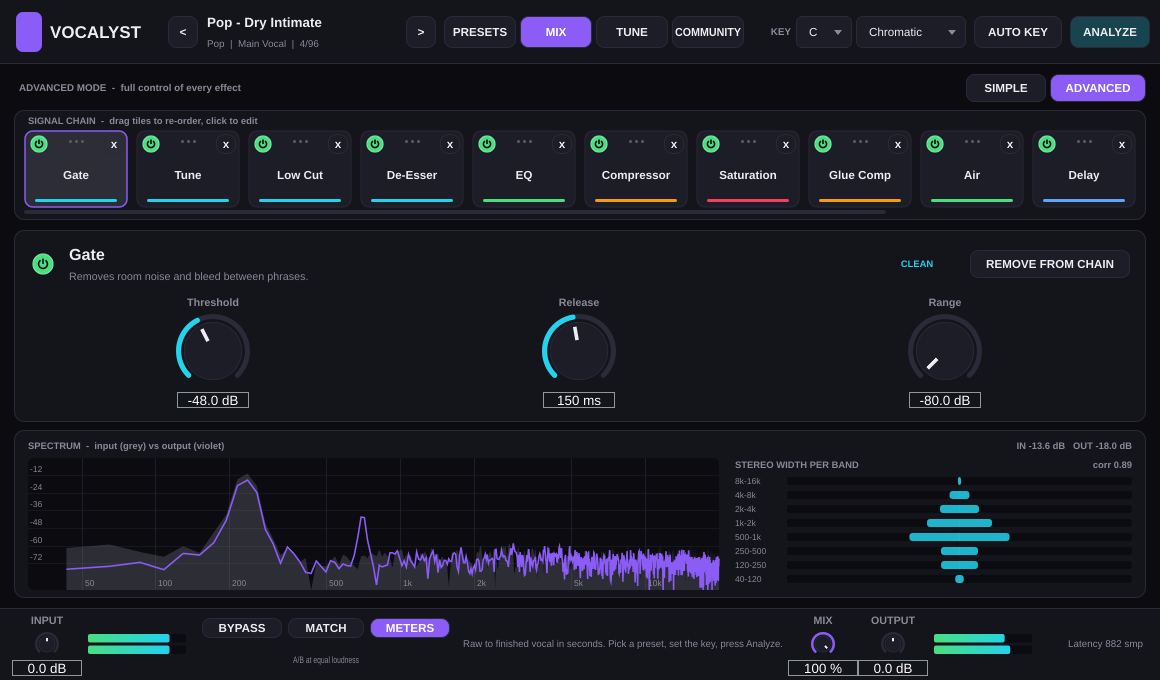
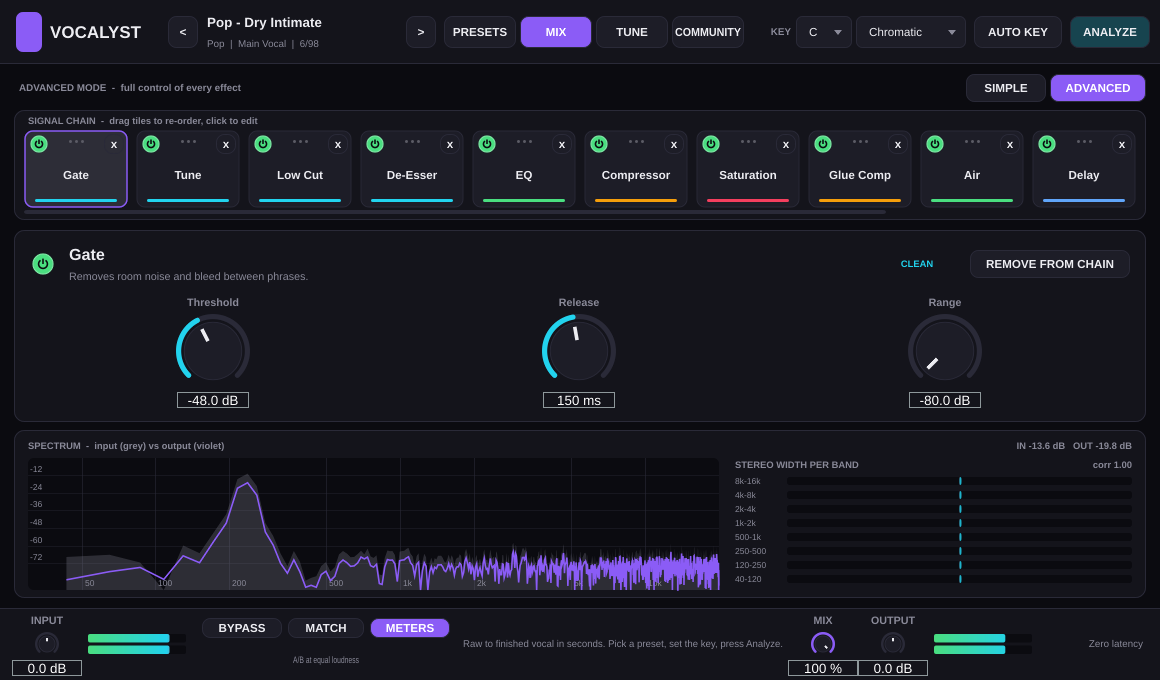
Init presets (Empty, Clean Chain), new instances start clean, NEW CHAIN button
Claude-Session: https://claude.ai/code/session_019o7CvKRSV2rczcRJZ2BTyA

diff --git a/Source/Presets/PresetData.cpp b/Source/Presets/PresetData.cpp
@@ -4,6 +4,8 @@ namespace vocalyst {
 extern const char* const kFactoryPresetData[];
 extern const int kNumFactoryPresets;
 const char* const kFactoryPresetData[] = {
+    "Init - Empty|Init|main|Blank canvas. Open the MIX tab, press + ADD and build your own chain.||",
+    "Init - Clean Chain|Init|main|Transparent starting point: low cut, flat EQ, gentle 2:1 compression and a safety limiter.|lowcut,eq,comp,limiter|comp_attack=10;comp_makeup=0;comp_mix=100;comp_ratio=2;comp_release=100;comp_thresh=-24;eq_highfreq=9000;eq_highgain=0;eq_lowfreq=150;eq_lowgain=0;eq_mid1freq=400;eq_mid1gain=0;eq_mid1q=1;eq_mid2freq=3000;eq_mid2gain=0;eq_mid2q=1;limiter_ceiling=-0.5;limiter_gain=0;limiter_release=60;lowcut_freq=80;lowcut_q=0.71",
     "Pop - Radio Ready|Pop|main|Polished, bright and forward. The go-to pop lead.|gate,tune,lowcut,deess,eq,comp,sat,glue,air,delay,reverb,limiter|air_amount=3;air_freq=12000;comp_attack=5;comp_makeup=3;comp_mix=100;comp_ratio=4;comp_release=80;comp_thresh=-20;deess_amount=9;deess_freq=6500;deess_thresh=-30;delay_duck=45;delay_feedback=35;delay_lowcut=250;delay_mix=18;delay_spread=100;delay_sync=3;delay_time=375;delay_tone=6000;eq_highfreq=9000;eq_highgain=2;eq_lowfreq=160;eq_lowgain=-1.5;eq_mid1freq=350;eq_mid1gain=-2;eq_mid1q=1;eq_mid2freq=3500;eq_mid2gain=2.5;eq_mid2q=0.9;gate_range=-80;gate_release=150;gate_thresh=-48;glue_attack=15;glue_makeup=2;glue_ratio=2;glue_release=250;glue_thresh=-22;limiter_ceiling=-0.5;limiter_gain=0;limiter_release=60;lowcut_freq=95;lowcut_q=0.71;reverb_decay=45;reverb_duck=30;reverb_mix=20;reverb_predelay=25;reverb_size=55;reverb_tone=8000;reverb_width=100;sat_drive=25;sat_mix=100;sat_tone=0;tune_amount=100;tune_humanize=0;tune_speed=30",
     "Pop - Crystal Lead|Pop|main|Extra air and a tight slap for sparkle.|gate,tune,lowcut,deess,eq,comp,sat,glue,air,slap,delay,reverb,limiter|air_amount=5;air_freq=12000;comp_attack=5;comp_makeup=3;comp_mix=100;comp_ratio=4;comp_release=80;comp_thresh=-20;deess_amount=9;deess_freq=6500;deess_thresh=-30;delay_duck=45;delay_feedback=35;delay_lowcut=250;delay_mix=18;delay_spread=100;delay_sync=3;delay_time=375;delay_tone=6000;eq_highfreq=9000;eq_highgain=3;eq_lowfreq=160;eq_lowgain=-1.5;eq_mid1freq=350;eq_mid1gain=-2;eq_mid1q=1;eq_mid2freq=3500;eq_mid2gain=2.5;eq_mid2q=0.9;gate_range=-80;gate_release=150;gate_thresh=-48;glue_attack=15;glue_makeup=2;glue_ratio=2;glue_release=250;glue_thresh=-22;limiter_ceiling=-0.5;limiter_gain=0;limiter_release=60;lowcut_freq=95;lowcut_q=0.71;reverb_decay=45;reverb_duck=30;reverb_mix=20;reverb_predelay=25;reverb_size=55;reverb_tone=8000;reverb_width=100;sat_drive=25;sat_mix=100;sat_tone=0;slap_feedback=10;slap_mix=15;slap_time=110;slap_tone=5000;tune_amount=100;tune_humanize=0;tune_speed=30",
     "Pop - Stadium|Pop|main|Big hall and long throws for anthemic hooks.|gate,tune,lowcut,deess,eq,comp,sat,glue,air,delay,reverb,limiter|air_amount=3;air_freq=12000;comp_attack=5;comp_makeup=3;comp_mix=100;comp_ratio=4;comp_release=80;comp_thresh=-20;deess_amount=9;deess_freq=6500;deess_thresh=-30;delay_duck=45;delay_feedback=35;delay_lowcut=250;delay_mix=24;delay_spread=100;delay_sync=3;delay_time=375;delay_tone=6000;eq_highfreq=9000;eq_highgain=2;eq_lowfreq=160;eq_lowgain=-1.5;eq_mid1freq=350;eq_mid1gain=-2;eq_mid1q=1;eq_mid2freq=3500;eq_mid2gain=2.5;eq_mid2q=0.9;gate_range=-80;gate_release=150;gate_thresh=-48;glue_attack=15;glue_makeup=2;glue_ratio=2;glue_release=250;glue_thresh=-22;limiter_ceiling=-0.5;limiter_gain=0;limiter_release=60;lowcut_freq=95;lowcut_q=0.71;reverb_decay=75;reverb_duck=30;reverb_mix=32;reverb_predelay=25;reverb_size=85;reverb_tone=8000;reverb_width=100;sat_drive=25;sat_mix=100;sat_tone=0;tune_amount=100;tune_humanize=0;tune_speed=30",
@@ -101,5 +103,5 @@ const char* const kFactoryPresetData[] = {
     "Plugg - Underwater|Plugg|adlib|Dark low-passed wash.|gate,tune,lowcut,deess,eq,comp,sat,lofi,glue,doubler,widener,highcut,delay,reverb,limiter|comp_attack=5;comp_makeup=3;comp_mix=100;comp_ratio=6;comp_release=80;comp_thresh=-20;deess_amount=9;deess_freq=6500;deess_thresh=-30;delay_duck=45;delay_feedback=50;delay_lowcut=250;delay_mix=38;delay_spread=100;delay_sync=1;delay_time=375;delay_tone=4000;doubler_delay=20;doubler_detune=12;doubler_mix=35;doubler_width=100;eq_highfreq=9000;eq_highgain=1.5;eq_lowfreq=160;eq_lowgain=-1.5;eq_mid1freq=500;eq_mid1gain=-3;eq_mid1q=1;eq_mid2freq=3500;eq_mid2gain=2;eq_mid2q=0.9;gate_range=-80;gate_release=150;gate_thresh=-42;glue_attack=15;glue_makeup=2;glue_ratio=2;glue_release=250;glue_thresh=-22;highcut_freq=5000;highcut_q=0.71;limiter_ceiling=-2;limiter_gain=0;limiter_release=60;lofi_bits=10;lofi_mix=40;lofi_rate=14000;lowcut_freq=100;lowcut_q=0.71;reverb_decay=65;reverb_duck=30;reverb_mix=55;reverb_predelay=25;reverb_size=75;reverb_tone=8000;reverb_width=100;sat_drive=40;sat_mix=100;sat_tone=10;tune_amount=100;tune_humanize=0;tune_speed=5;widener_lowmono=120;widener_width=150",
     "Afrobeats - Chant|Afrobeats|adlib|Wide triplet echoes for group chants.|gate,tune,lowcut,deess,eq,comp,sat,glue,chorus,widener,doubler,delay,reverb,limiter|chorus_depth=35;chorus_mix=12;chorus_rate=0.6;comp_attack=5;comp_makeup=3;comp_mix=100;comp_ratio=6;comp_release=80;comp_thresh=-20;deess_amount=9;deess_freq=6500;deess_thresh=-30;delay_duck=45;delay_feedback=50;delay_lowcut=250;delay_mix=38;delay_spread=100;delay_sync=6;delay_time=375;delay_tone=6000;doubler_delay=20;doubler_detune=12;doubler_mix=45;doubler_width=100;eq_highfreq=9000;eq_highgain=2.5;eq_lowfreq=160;eq_lowgain=-1.5;eq_mid1freq=350;eq_mid1gain=-2;eq_mid1q=1;eq_mid2freq=3500;eq_mid2gain=2.5;eq_mid2q=0.9;gate_range=-80;gate_release=150;gate_thresh=-42;glue_attack=15;glue_makeup=2;glue_ratio=2;glue_release=250;glue_thresh=-22;limiter_ceiling=-2;limiter_gain=0;limiter_release=60;lowcut_freq=100;lowcut_q=0.71;reverb_decay=65;reverb_duck=30;reverb_mix=40;reverb_predelay=25;reverb_size=75;reverb_tone=8000;reverb_width=100;sat_drive=25;sat_mix=100;sat_tone=0;tune_amount=100;tune_humanize=0;tune_speed=20;widener_lowmono=120;widener_width=150",
 };
-const int kNumFactoryPresets = 96;
+const int kNumFactoryPresets = 98;
 } // namespace vocalyst

diff --git a/Tests/VocalystTests.cpp b/Tests/VocalystTests.cpp
@@ -67,15 +67,17 @@ static void testPresets (VocalystProcessor& p)
 {
     std::cout << "Presets\n";
     auto& f = presets::factory();
-    CHECK (f.size() == 96, "96 factory presets (" + juce::String ((int) f.size()) + ")");
-    CHECK (presets::count (false) == 59, "59 main vocal presets");
+    CHECK (f.size() == 98, "98 factory presets: 2 init + 59 main + 37 ad-lib (" + juce::String ((int) f.size()) + ")");
+    CHECK (presets::count (false) == 61, "61 main vocal presets incl. 2 Init");
+    CHECK (f[0].name == "Init - Empty" && f[0].chain.empty(), "Init - Empty is first and has no modules");
+    CHECK (f[1].name == "Init - Clean Chain" && f[1].chain.size() == 4, "Init - Clean Chain has 4 transparent modules");
     CHECK (presets::count (true) == 37, "37 ad-lib presets");
     bool idsOk = true, chainOk = true, namesOk = true;
     std::set<juce::String> names;
     for (auto& pr : f)
     {
         if (! names.insert (pr.name).second) namesOk = false;
-        if (pr.chain.empty()) chainOk = false;
+        if (pr.chain.empty() && pr.genre != "Init") chainOk = false;
         for (auto& c : pr.chain) if (findModuleByKey (c) == nullptr) chainOk = false;
         for (auto& kv : pr.values) if (p.apvts.getParameter (kv.first) == nullptr) { idsOk = false; std::cout << "    bad id " << kv.first << " in " << pr.name << "\n"; }
     }
@@ -93,7 +95,7 @@ static void testPresets (VocalystProcessor& p)
         if (p.getCurrentPresetName() != f[(size_t) i].name) loadOk = false;
     }
     CHECK (loadOk, "all presets load with the expected chain length");
-    p.loadFactoryPreset (0);
+    p.loadFactoryPreset (presets::indexOf ("Pop - Radio Ready"));
     CHECK (std::abs (p.apvts.getRawParameterValue ("tune_speed")->load() - 30.f) < 0.01f, "preset value applied (Pop tune speed = 30 ms)");
 
     // JSON round trip
@@ -399,6 +401,7 @@ static void testState()
 {
     std::cout << "State\n";
     VocalystProcessor a;
+    CHECK (a.getCurrentPresetName() == "Init - Clean Chain", "new instance starts on Init - Clean Chain");
     a.loadFactoryPreset (5);
     a.setChainOrder ({ ModuleId::Reverb, ModuleId::Gate, ModuleId::Tune });
     a.setKey (6, scales::Minor);

diff --git a/tools/gen_presets.py b/tools/gen_presets.py
@@ -271,13 +271,26 @@ def build(genre, variants, adlib):
         out.append((full, genre, "adlib" if adlib else "main", desc, chain, keep))
     return out
 
-presets = []
+# Init presets first: a blank canvas and a transparent utility chain to build on
+INIT = [
+    ("Init - Empty", "Init", "main", "Blank canvas. Open the MIX tab, press + ADD and build your own chain.", [], {}),
+    ("Init - Clean Chain", "Init", "main",
+     "Transparent starting point: low cut, flat EQ, gentle 2:1 compression and a safety limiter.",
+     ["lowcut", "eq", "comp", "limiter"],
+     {"lowcut_freq": 80, "lowcut_q": 0.71,
+      "eq_lowgain": 0, "eq_lowfreq": 150, "eq_mid1gain": 0, "eq_mid1freq": 400, "eq_mid1q": 1.0,
+      "eq_mid2gain": 0, "eq_mid2freq": 3000, "eq_mid2q": 1.0, "eq_highgain": 0, "eq_highfreq": 9000,
+      "comp_thresh": -24, "comp_ratio": 2, "comp_attack": 10, "comp_release": 100, "comp_makeup": 0, "comp_mix": 100,
+      "limiter_gain": 0, "limiter_ceiling": -0.5, "limiter_release": 60}),
+]
+
+presets = list(INIT)
 for g in ["Pop", "R&B", "Trap", "Rage", "Hip-Hop", "Soul", "Afrobeats", "Indie", "Hyperpop", "Plugg"]:
     presets += build(g, MAIN[g], False)
 for g in ["Trap", "R&B", "Rage", "Pop", "Hip-Hop", "Hyperpop", "Plugg", "Afrobeats"]:
     presets += build(g, ADLIB[g], True)
 
-n_main = sum(1 for p in presets if p[2] == "main")
+n_main = sum(1 for p in presets if p[2] == "main" and p[1] != "Init")
 n_adlib = sum(1 for p in presets if p[2] == "adlib")
 assert n_main == 59, n_main
 assert n_adlib == 37, n_adlib
@@ -307,4 +320,4 @@ lines.append("} // namespace vocalyst")
 
 with open(OUT, "w") as f:
     f.write("\n".join(lines) + "\n")
-print(f"wrote {OUT}: {n_main} main + {n_adlib} adlib = {len(presets)} presets")
+print(f"wrote {OUT}: {len(INIT)} init + {n_main} main + {n_adlib} adlib = {len(presets)} presets")

diff --git a/Source/Plugin/UI/PresetBrowserPanel.cpp b/Source/Plugin/UI/PresetBrowserPanel.cpp
@@ -10,7 +10,9 @@ PresetBrowserPanel::PresetBrowserPanel (VocalystProcessor& p) : processor (p)
     catAdlib.onClick = [this] { setCategory (Adlib); };
     catUser.onClick  = [this] { setCategory (User); };
 
-    addAndMakeVisible (saveBtn); addAndMakeVisible (deleteBtn); addAndMakeVisible (folderBtn);
+    addAndMakeVisible (saveBtn); addAndMakeVisible (deleteBtn); addAndMakeVisible (folderBtn); addAndMakeVisible (newBtn);
+    newBtn.setColour (juce::TextButton::buttonColourId, colours::accent2().withAlpha (0.25f));
+    newBtn.onClick = [this] { const int i = presets::indexOf ("Init - Empty"); if (i >= 0) { processor.loadFactoryPreset (i); setCategory (MainVocal); } };
     saveBtn.onClick = [this] { saveUserPreset(); };
     deleteBtn.onClick = [this] { deleteUserPreset(); };
     folderBtn.onClick = [] { sharedkey::presetsDirectory().revealToUser(); };
@@ -202,6 +204,8 @@ void PresetBrowserPanel::resized()
     deleteBtn.setBounds (top.removeFromRight (80));
     top.removeFromRight (6);
     saveBtn.setBounds (top.removeFromRight (170));
+    top.removeFromRight (6);
+    newBtn.setBounds (top.removeFromRight (100));
     r.removeFromTop (8);
     auto bottom = r.removeFromBottom (22);
     description.setBounds (bottom);

diff --git a/Tests/Screenshot.cpp b/Tests/Screenshot.cpp
@@ -37,7 +37,7 @@ public:
             for (int i = 0; i < 512; ++i) { const float v = 0.3f * (float) std::sin (ph) + 0.03f * (rng.nextFloat() - 0.5f); ph += 2.0 * juce::MathConstants<double>::pi * 233.0 / 44100.0; buf.setSample (0, i, v); buf.setSample (1, i, v); }
             proc.processBlock (buf, midi);
         }
-        proc.loadFactoryPreset (3);
+        proc.loadFactoryPreset (vocalyst::presets::indexOf ("Pop - Dry Intimate"));
 
         auto window = std::make_unique<juce::DocumentWindow> ("Vocalyst", juce::Colours::black, 0);
         auto* editor = new vocalyst::VocalystEditor (proc);

diff --git a/Source/Plugin/UI/PresetBrowserPanel.h b/Source/Plugin/UI/PresetBrowserPanel.h
@@ -46,7 +46,7 @@ private:
 
     VocalystProcessor& processor;
     PillButton catMain { "MAIN VOCAL" }, catAdlib { "AD-LIBS" }, catUser { "USER" };
-    juce::TextButton saveBtn { "SAVE AS USER PRESET" }, deleteBtn { "DELETE" }, folderBtn { "OPEN FOLDER" };
+    juce::TextButton saveBtn { "SAVE AS USER PRESET" }, deleteBtn { "DELETE" }, folderBtn { "OPEN FOLDER" }, newBtn { "NEW CHAIN" };
     juce::Label title, description;
     GenreModel genreModel { *this };
     PresetModel presetModel { *this };

diff --git a/Source/Plugin/VocalystProcessor.cpp b/Source/Plugin/VocalystProcessor.cpp
@@ -113,8 +113,9 @@ VocalystProcessor::VocalystProcessor()
     uiState.setProperty ("autoKeyLink", false, nullptr);
     apvts.state.addChild (uiState, -1, nullptr);
 
+    const int init = juce::jmax (0, presets::indexOf ("Init - Clean Chain"));
     if (! presets::factory().empty())
-        loadFactoryPreset (0);
+        loadFactoryPreset (init);
     else
         setChainOrder (defaultChain());
 

diff --git a/README.md b/README.md
@@ -22,7 +22,7 @@ you point CMake at an AAX SDK.
 
 ## Features
 
-- **96 presets**: 59 main-vocal and 37 ad-lib chains grouped by genre (Pop, R&B, Trap, Rage, Hip-Hop, Soul, Afrobeats, Indie, Hyperpop, Plugg). Every preset is a full effect chain you can open and edit.
+- **Presets**: two Init presets (an empty chain and a transparent clean chain) to build your own sound from, plus 59 main-vocal and 37 ad-lib chains grouped by genre (Pop, R&B, Trap, Rage, Hip-Hop, Soul, Afrobeats, Indie, Hyperpop, Plugg). Every preset is a full effect chain you can open and edit. A NEW CHAIN button in the browser starts from scratch.
 - **27 vocal effects in one plugin**: add, remove and drag effects into any order, with per-module bypass.
 - **Simple and Advanced mode**: Simple gives six macros (Tune, Clean, Tone, Drive, Width, Space) that bend the loaded preset without editing it. Advanced exposes every parameter of every effect.
 - **Tune page**: real-time pitch correction with its own tab. Pick key and scale, click keys on a keyboard to allow or forbid individual notes, choose the voice range, and shape it with Amount, Retune Speed, Humanize, Flex-Tune (leave far-off notes expressive), Vibrato (scale the singer's own vibrato) and Transpose. NATURAL / TIGHT / HARD shortcuts, a scrolling sung-vs-corrected pitch graph, and optional MIDI control where held notes become the allowed notes. Latency is reported only while Tune is active.
